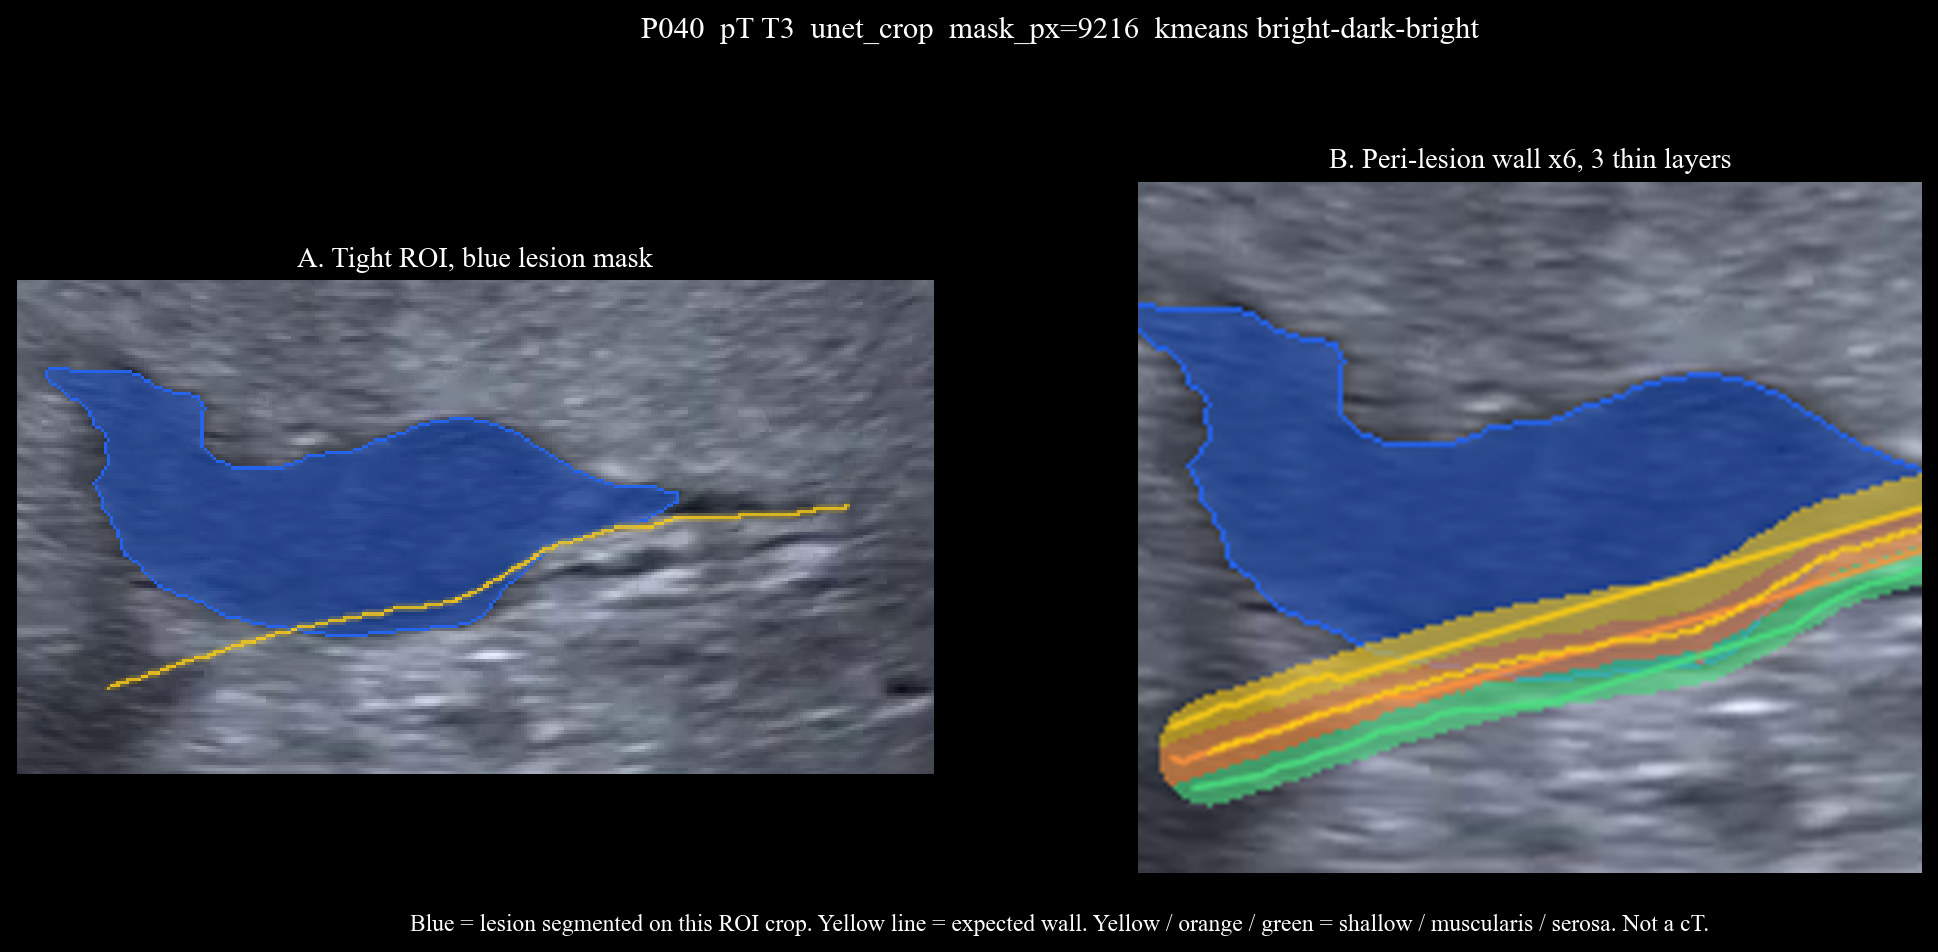
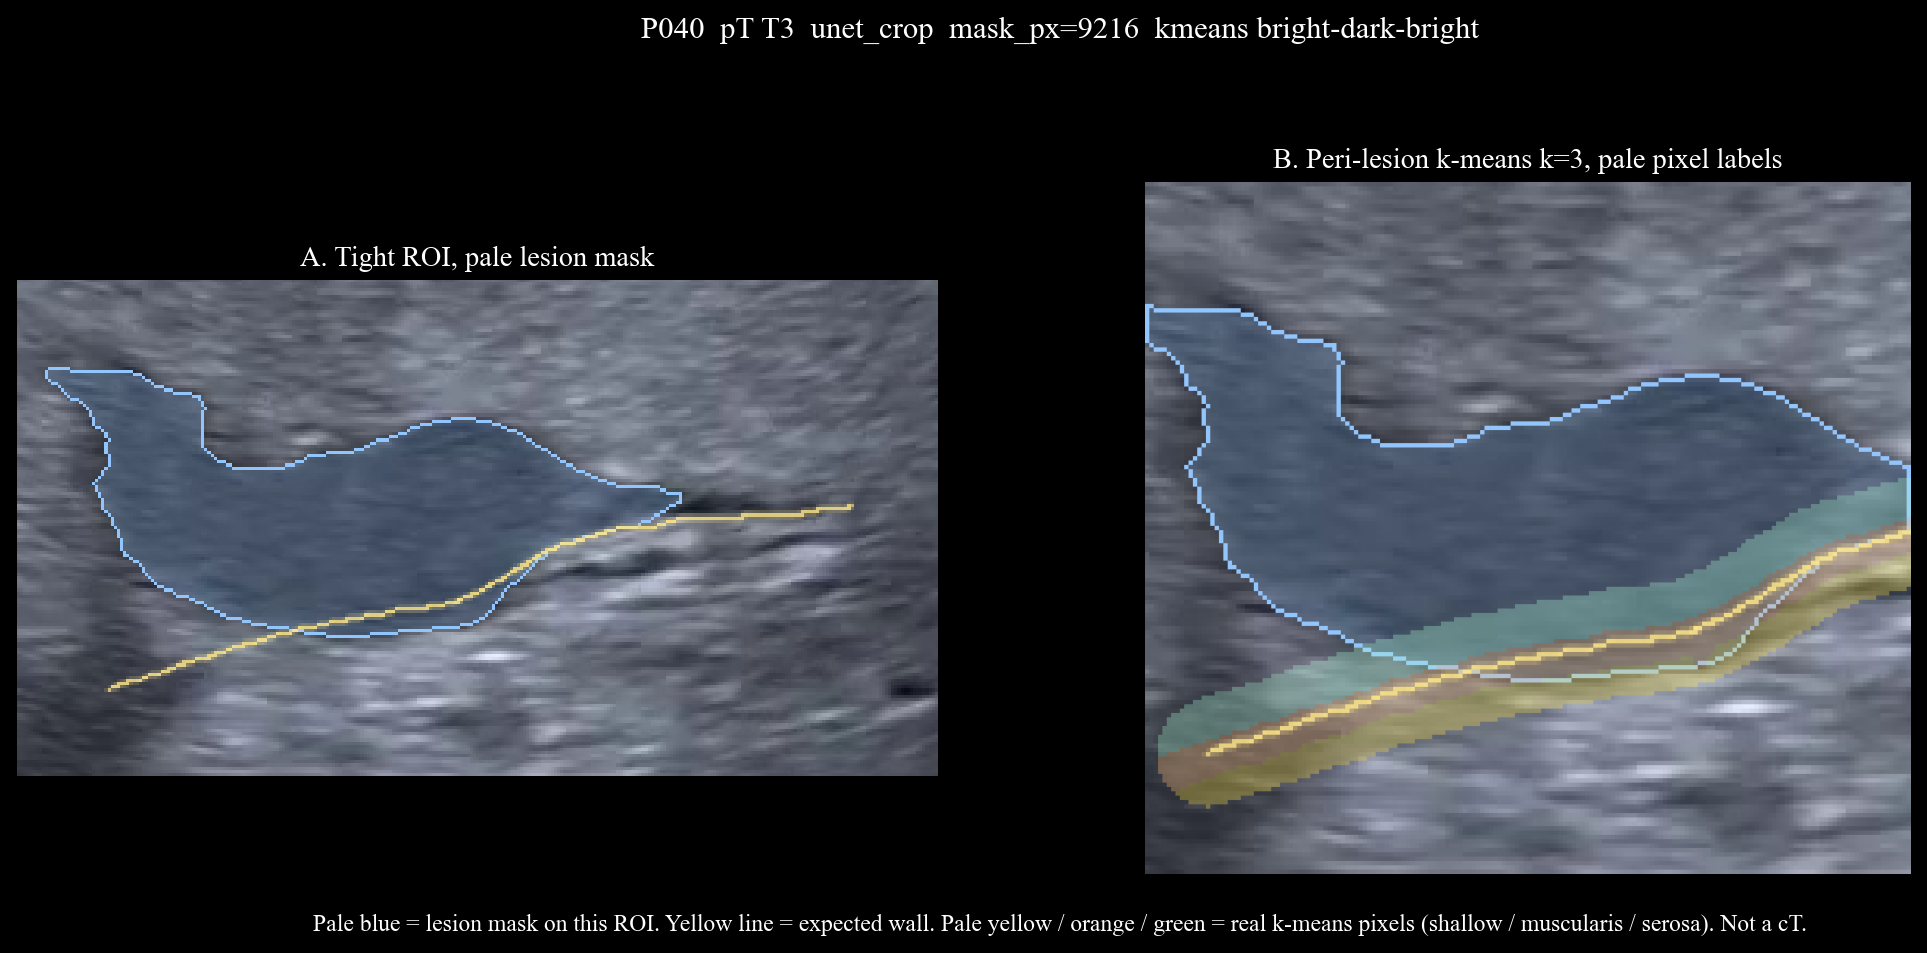
Show P040 alone with pale real k-means wall pixels.

diff --git a/scripts/render_wall_layer_thin_bands.py b/scripts/render_wall_layer_thin_bands.py
@@ -42,13 +42,15 @@ DINO_CKPT = (
     / "experiments/segmentation/dinov3_vitb16_roi_lora_mlp_512_m025_20260828_full/checkpoints/best.pt"
 )
 
-LESION_BLUE = (37, 99, 235)
+LESION_BLUE = (147, 197, 253)
 LAYER_RGB = {
-    0: (250, 204, 21),
-    1: (251, 146, 60),
-    2: (74, 222, 128),
+    0: (253, 224, 71),
+    1: (253, 186, 116),
+    2: (167, 243, 208),
 }
-WALL = (250, 204, 21)
+WALL = (253, 230, 138)
+LAYER_BLEND = 0.32
+LESION_BLEND = 0.26
 
 # Tight pads. P008 lesion sits on the lower wall; drop the empty upper sector.
 CROP_HINT = {
@@ -121,7 +123,7 @@ def tight_roi(image: np.ndarray, wall: np.ndarray, case_id: str) -> tuple[np.nda
     return image[y1:y2, x1:x2].copy(), x1, y1, x2, y2
 
 
-def overlay_blue(rgb: np.ndarray, mask: np.ndarray, alpha: float = 0.48) -> np.ndarray:
+def overlay_blue(rgb: np.ndarray, mask: np.ndarray, alpha: float = LESION_BLEND) -> np.ndarray:
     out = rgb.astype(np.float32)
     sel = mask > 0
     if sel.any():
@@ -143,8 +145,26 @@ def overlay_layers(rgb: np.ndarray, xs, ys, labels) -> np.ndarray:
         sel = ok & (labels == lab)
         if not sel.any():
             continue
-        out[ys[sel], xs[sel]] = 0.40 * out[ys[sel], xs[sel]] + 0.60 * np.array(color, dtype=np.float32)
+        out[ys[sel], xs[sel]] = (1.0 - LAYER_BLEND) * out[ys[sel], xs[sel]] + LAYER_BLEND * np.array(color, dtype=np.float32)
     return np.clip(out, 0, 255).astype(np.uint8)
+
+
+def peri_window(rgb: np.ndarray, wall: np.ndarray, lesion_mask: np.ndarray) -> tuple[int, int, int, int]:
+    h, w = rgb.shape[:2]
+    ys, xs = np.where(lesion_mask > 0)
+    if len(xs) >= 20:
+        cx, cy = int(xs.mean()), int(ys.mean())
+        win = 88
+        return max(0, cx - win), max(0, cy - win), min(w, cx + win), min(h, cy + win)
+    wall = as_xy(wall)
+    if len(wall) < 2:
+        return 0, 0, w, h
+    pad = 16
+    x1 = max(0, int(wall[:, 0].min()) - pad)
+    y1 = max(0, int(wall[:, 1].min()) - pad)
+    x2 = min(w, int(wall[:, 0].max()) + pad)
+    y2 = min(h, int(wall[:, 1].max()) + pad)
+    return x1, y1, x2, y2
 
 
 def peri_zoom(rgb: np.ndarray, wall: np.ndarray, lesion_mask: np.ndarray, scale: int = 5) -> np.ndarray:
@@ -290,19 +310,12 @@ class RoiSegmenter:
         return cv2.resize(inner, (w, h), interpolation=cv2.INTER_NEAREST) * 255
 
 
-def choose_arm(gray, wall, lesion_mask, lumen_center, lesion_poly, cavity, brush: float):
-    arms = []
-    for method in ("kmeans", "ward"):
-        arm = cluster_brush_band(
-            gray, wall, lesion_mask,
-            brush_radius=brush, k=3, dilate_px=5, exclude_lesion=True, method=method,
-            lumen_center=lumen_center, lesion_poly=lesion_poly, cavity_side_source=cavity,
-        )
-        arms.append(arm)
-        if getattr(arm, "bright_dark_bright", False):
-            return arm
-    ok = [a for a in arms if getattr(a, "status", "") == "ok"]
-    return ok[0] if ok else arms[0]
+def choose_arm(gray, wall, lesion_mask, lumen_center, lesion_poly, cavity, brush: float, method: str = "kmeans"):
+    return cluster_brush_band(
+        gray, wall, lesion_mask,
+        brush_radius=brush, k=3, dilate_px=5, exclude_lesion=True, method=method,
+        lumen_center=lumen_center, lesion_poly=lesion_poly, cavity_side_source=cavity,
+    )
 
 
 def render_case(meta: dict, seg: RoiSegmenter, out_dir: Path, brush: float) -> dict:
@@ -322,36 +335,49 @@ def render_case(meta: dict, seg: RoiSegmenter, out_dir: Path, brush: float) -> d
     if len(wall_crop):
         wall_crop[:, 0] -= x1
         wall_crop[:, 1] -= y1
-    gray = to_gray(image)
-    arm = choose_arm(gray, wall_full, full_mask, lumen_center, lesion_poly, cavity, brush)
-
     crop_rgb = cv2.cvtColor(crop, cv2.COLOR_BGR2RGB)
+    wx1, wy1, wx2, wy2 = peri_window(crop_rgb, wall_crop, crop_mask)
+    win_bgr = crop[wy1:wy2, wx1:wx2]
+    win_mask = crop_mask[wy1:wy2, wx1:wx2]
+    wall_win = wall_crop.copy()
+    if len(wall_win):
+        wall_win = wall_win - np.array([wx1, wy1], dtype=np.float32)
+        inside = (
+            (wall_win[:, 0] >= -2) & (wall_win[:, 0] < (wx2 - wx1) + 2)
+            & (wall_win[:, 1] >= -2) & (wall_win[:, 1] < (wy2 - wy1) + 2)
+        )
+        if int(inside.sum()) >= 4:
+            wall_win = wall_win[inside]
+    win_lumen = None
+    if lumen_center is not None:
+        win_lumen = lumen_center - np.array([x1 + wx1, y1 + wy1], dtype=np.float32)
+    win_poly = mask_to_polygon(win_mask)
+    # Cluster the pixels in this peri-lesion window, not the whole cine stroke.
+    arm = choose_arm(
+        to_gray(win_bgr), wall_win, win_mask, win_lumen, win_poly, cavity, brush, method="kmeans",
+    )
+
     panel_a = overlay_blue(crop_rgb, crop_mask)
     if len(wall_crop) >= 2:
         cv2.polylines(panel_a, [np.round(wall_crop).astype(np.int32)], False, WALL, 1, cv2.LINE_AA)
 
-    zoom_base = overlay_blue(crop_rgb, crop_mask)
+    zoom_base = overlay_blue(cv2.cvtColor(win_bgr, cv2.COLOR_BGR2RGB), win_mask)
     if arm is not None and getattr(arm, "status", "") == "ok":
-        xs = np.asarray(arm.xs, dtype=np.int32) - x1
-        ys = np.asarray(arm.ys, dtype=np.int32) - y1
-        zoom_base = overlay_layers(zoom_base, xs, ys, arm.labels)
-        for name, line in (arm.layer_polylines or {}).items():
-            pts = as_xy(line)
-            if len(pts) < 2:
-                continue
-            pts = pts - np.array([x1, y1], dtype=np.float32)
-            color = {"shallow": LAYER_RGB[0], "muscularis": LAYER_RGB[1], "serosa": LAYER_RGB[2]}.get(name, (255, 255, 255))
-            cv2.polylines(zoom_base, [np.round(pts).astype(np.int32)], False, color, 1, cv2.LINE_AA)
-    if len(wall_crop) >= 2:
-        cv2.polylines(zoom_base, [np.round(wall_crop).astype(np.int32)], False, WALL, 1, cv2.LINE_AA)
-    panel_b = peri_zoom(zoom_base, wall_crop, crop_mask, scale=6)
+        zoom_base = overlay_layers(zoom_base, arm.xs, arm.ys, arm.labels)
+    if len(wall_win) >= 2:
+        cv2.polylines(zoom_base, [np.round(wall_win).astype(np.int32)], False, WALL, 1, cv2.LINE_AA)
+    panel_b = cv2.resize(
+        zoom_base,
+        (zoom_base.shape[1] * 6, zoom_base.shape[0] * 6),
+        interpolation=cv2.INTER_NEAREST,
+    )
 
     fig, axes = plt.subplots(1, 2, figsize=(12.6, 5.6), gridspec_kw={"width_ratios": [1.0, 1.25]})
     axes[0].imshow(panel_a)
-    axes[0].set_title("A. Tight ROI, blue lesion mask", fontsize=12)
+    axes[0].set_title("A. Tight ROI, pale lesion mask", fontsize=12)
     axes[0].axis("off")
     axes[1].imshow(panel_b)
-    axes[1].set_title("B. Peri-lesion wall x6, 3 thin layers", fontsize=12)
+    axes[1].set_title("B. Peri-lesion k-means k=3, pale pixel labels", fontsize=12)
     axes[1].axis("off")
     area = int((crop_mask > 0).sum())
     fig.suptitle(
@@ -363,8 +389,8 @@ def render_case(meta: dict, seg: RoiSegmenter, out_dir: Path, brush: float) -> d
     fig.text(
         0.5,
         0.02,
-        "Blue = lesion segmented on this ROI crop. Yellow line = expected wall. "
-        "Yellow / orange / green = shallow / muscularis / serosa. Not a cT.",
+        "Pale blue = lesion mask on this ROI. Yellow line = expected wall. "
+        "Pale yellow / orange / green = real k-means pixels (shallow / muscularis / serosa). Not a cT.",
         ha="center",
         fontsize=10,
     )
@@ -408,13 +434,20 @@ def main() -> int:
     parser.add_argument("--fixtures", default=str(DEFAULT_FIXTURES))
     parser.add_argument("--out", default=str(DEFAULT_OUT))
     parser.add_argument("--brush", type=float, default=10.0)
+    parser.add_argument("--case", action="append", dest="cases", help="P040 or CASE-040. Repeatable. Default: all.")
+    parser.add_argument("--index", action="store_true", help="Also write a 4-case contact sheet.")
     args = parser.parse_args()
+    wanted = {str(token).upper().replace("P", "CASE-") if str(token).upper().startswith("P") else str(token).upper() for token in (args.cases or [])}
+    wanted = {item if item.startswith("CASE-") else f"CASE-{item}" for item in wanted}
     seg = RoiSegmenter()
     print(f"segmenter={seg.kind}", flush=True)
     rows = []
     panels = []
     for meta_path in sorted(Path(args.fixtures).glob("CASE-*/meta.json")):
-        row = render_case(load_meta(meta_path), seg, Path(args.out), max(DEFAULT_BRUSH, float(args.brush)))
+        meta = load_meta(meta_path)
+        if wanted and str(meta.get("case_id")) not in wanted:
+            continue
+        row = render_case(meta, seg, Path(args.out), max(DEFAULT_BRUSH, float(args.brush)))
         rows.append(row)
         if row.get("panel"):
             panels.append(Path(row["panel"]))
@@ -423,18 +456,17 @@ def main() -> int:
             f"{row.get('method')} {row.get('pattern')}",
             flush=True,
         )
-    index = render_index(Path(args.out), panels)
     VIS_DIR.mkdir(parents=True, exist_ok=True)
-    sheet = VIS_DIR / "wall_layer_thin_bands_20260829.png"
-    if index.exists():
-        sheet.write_bytes(index.read_bytes())
     for panel in panels:
         (VIS_DIR / panel.name).write_bytes(panel.read_bytes())
+    index_path = ""
+    if args.index and panels:
+        index_path = str(render_index(Path(args.out), panels))
     (Path(args.out) / "summary.json").write_text(
-        json.dumps({"created_at": "2026-08-29", "segmenter": seg.kind, "cases": rows, "index": str(index)}, indent=2),
+        json.dumps({"created_at": "2026-08-29", "segmenter": seg.kind, "cases": rows, "index": index_path}, indent=2),
         encoding="utf-8",
     )
-    print(f"wrote {index}", flush=True)
+    print(f"wrote {len(panels)} panel(s)", flush=True)
     return 0
 
 

diff --git a/docs/PROJECT_CHANGELOG.md b/docs/PROJECT_CHANGELOG.md
@@ -2,6 +2,14 @@
 
 This file records material project changes, their validation, and deployment state. Do not add patient identifiers, credentials, tokens, private URLs, or sensitive clinical data.
 
+## 2026-08-29, P040 single-case pale k-means
+
+- Scope: `scripts/render_wall_layer_thin_bands.py --case P040`. Panel `results/visualizations/error_cases/CASE-040_thin_bands.png`.
+- Reason: Four-case contact sheet was too busy. Need one case at a time, lighter overlays, and pixel k-means on the peri-lesion window rather than painted ribbons.
+- Key changes: `--case` skips the collage. Cluster k-means k=3 only on the magnified peri-lesion crop after excluding the lesion mask. Overlay alpha is lower. Does not unlock cT.
+- Validation: P040 exclude-lesion k-means formed bright-dark-bright.
+- Deployment: none (offline figure).
+
 ## 2026-08-29, ROI lesion mask then peri-lesion layer zoom
 
 - Scope: `scripts/render_wall_layer_thin_bands.py`. Same panel folder `pipeline/experiments/reports/lesion_aware_wall_cluster_v1/thin_bands/`.
